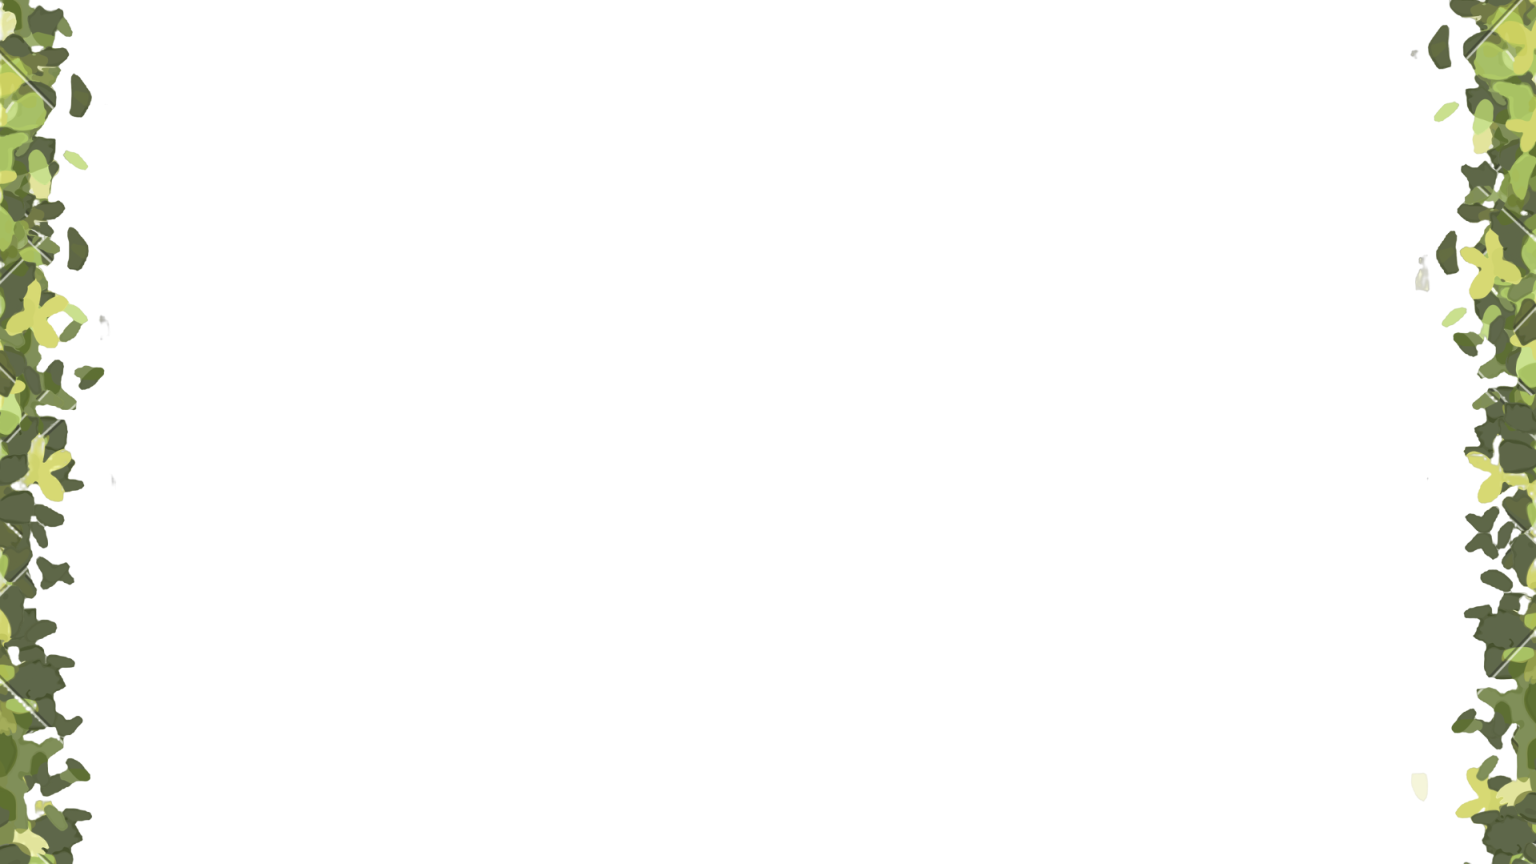
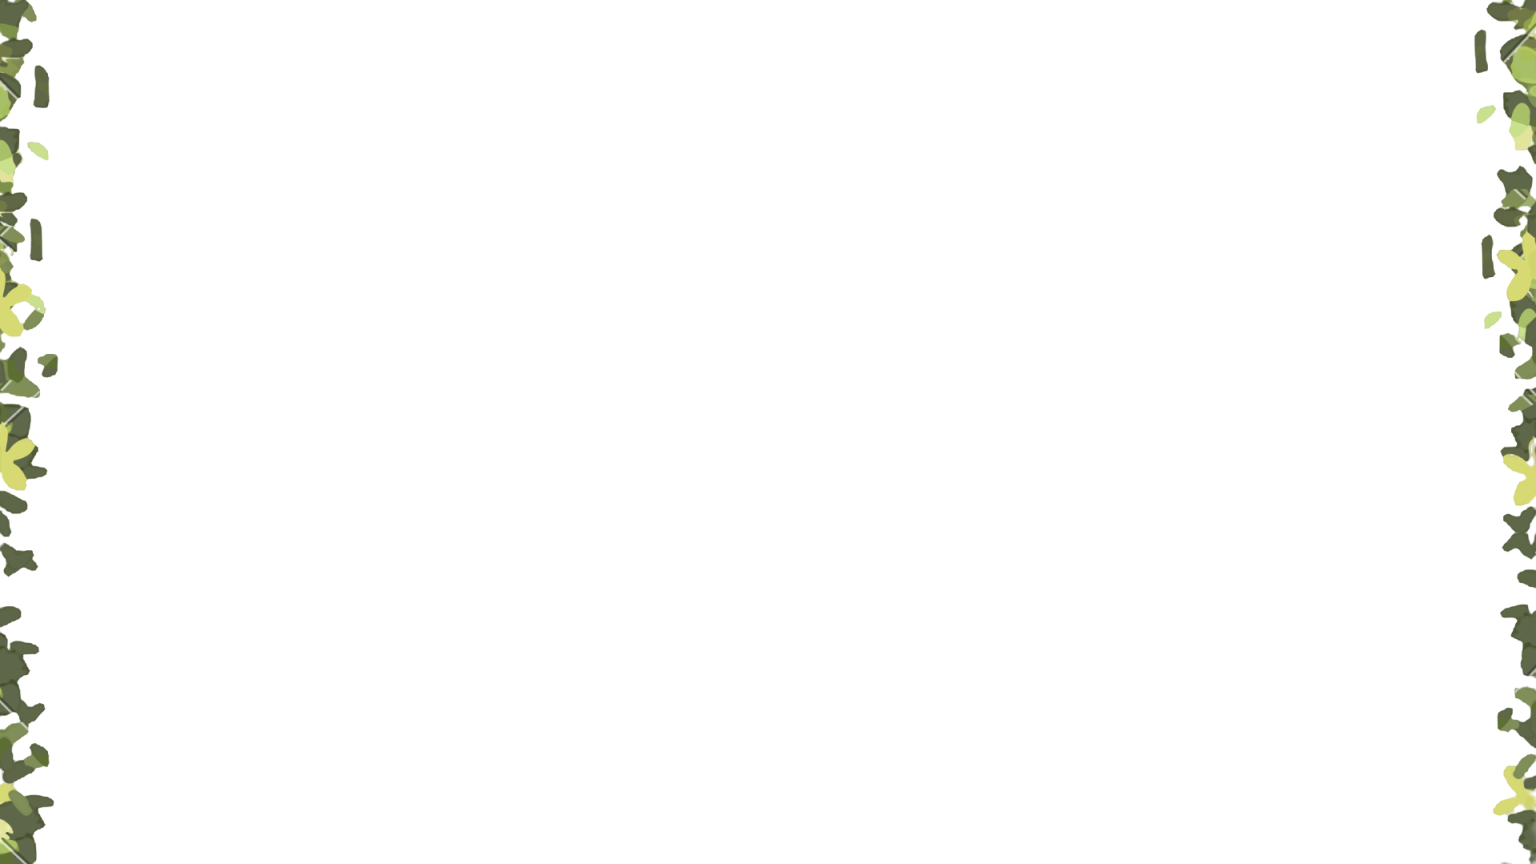
Update 3

Changed region(s): [[0.9062, 0.0, 1.0, 1.0], [0.0, 0.0, 0.0625, 1.0]]

diff --git a/index.html b/index.html
@@ -153,12 +153,25 @@
             z-index: 999;
             pointer-events: none;
             background-image: url('arbustos-laterais.png');
-            background-size: 100% 100%;
+            background-size: cover;
             background-repeat: no-repeat;
             background-position: center;
+            opacity: 0.85;
+            mask-image: linear-gradient(to bottom, rgba(0,0,0,0.3) 0%, rgba(0,0,0,1) 15%, rgba(0,0,0,1) 85%, rgba(0,0,0,0.3) 100%);
+            -webkit-mask-image: linear-gradient(to bottom, rgba(0,0,0,0.3) 0%, rgba(0,0,0,1) 15%, rgba(0,0,0,1) 85%, rgba(0,0,0,0.3) 100%);
+            filter: brightness(0.9) saturate(1.1);
+        }
+        @media (max-width: 1200px) {
+            .arbustos-laterais { 
+                background-size: 200% 100%;
+                background-position: center;
+            }
         }
         @media (max-width: 768px) {
-            .arbustos-laterais { background-size: cover; }
+            .arbustos-laterais { 
+                background-size: 300% 100%;
+                opacity: 0.7;
+            }
         }
         .ornamento { position: fixed; font-size: 3rem; z-index: 0; opacity: 0.3; animation: float 6s ease-in-out infinite; }
         @keyframes float { 0%, 100% { transform: translateY(0); } 50% { transform: translateY(-20px); } }
@@ -234,7 +247,13 @@
         <div class="texto">
             <h2 class="texto-titulo">🎄 CARTA DE NATAL 🎄</h2>
             <p id="typewriter-text">
-                Meu amor, nosso primeiro Natal juntos chegou! 🎄🤍
+                Meu amor, nosso primeiro Natal juntos chegou! 🎄<br><br>
+                Sabe, quando penso em tudo que vivemos desde aquela noite em que nos conhecemos, parece ate magica de Natal. Deus me abencoou com o maior presente que eu poderia ter: VOCE. Do outro lado do Brasil, la estava voce, esperando por mim, assim como eu esperava por voce.<br><br>
+                E olha so como fomos construindo nossa historia... Cada dia, cada conversa, cada risada (principalmente com aquela skin de lumbriga ksks). Construimos um caminho cheio de fe, cuidado, paciencia e MUITO amor. Nosso relacionamento e valioso porque sabemos tudo que passamos para chegar ate aqui.<br><br>
+                Todas as noites eu agradeco a Deus por ter voce ao meu lado, me amando com esse seu coracaozinho lindo. Meu amor, eu sou o homem MAIS SORTUDO do universo! Voce me fez e continua me fazendo um homem melhor a cada dia.<br><br>
+                Neste Natal, quero te agradecer por TUDO que voce faz por mim. 🎁 Saiba que eu sou o homem MAIS FELIZ do mundo ao seu lado. Acordo pensando em voce, no seu sorriso, nas nossas memorias e em tudo que ainda vamos viver juntos. Quero construir as melhores lembrancas ao seu lado!<br><br>
+                Meu futuro tem voce em cada sonho: ser seu marido, pai dos seus filhos... Eu luto todos os dias para que isso aconteca. E se ja me sinto tao realizado agora, imagina depois! ✨<br><br>
+                Sempre havera um pedaco de voce em mim. Para sempre. E eu sou eternamente grato por isso. 💚🎄<br><br>
             </p>
             <span id="eu-te-amo" class="eu-te-amo escondido">EU TE AMO MUITO,<br>MINHA GAROTINHA! 🎄🤍</span>
         </div>
